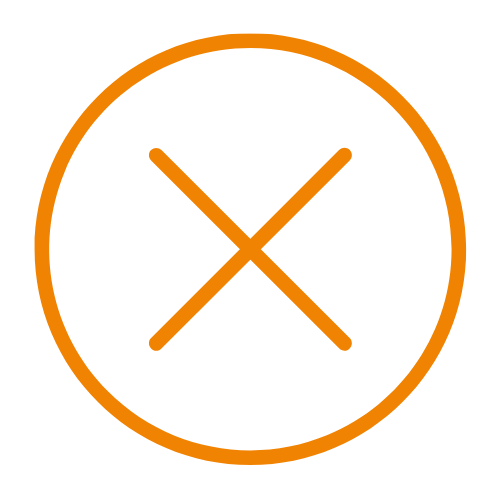
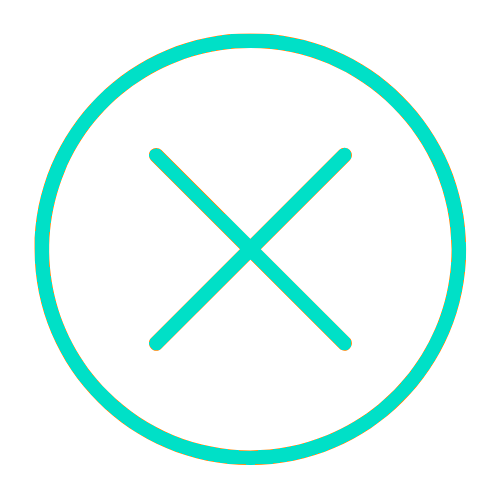
switch colors

Changed region(s): [[0.06, 0.06, 0.93, 0.93], [0.3, 0.3, 0.72, 0.72]]

diff --git a/Components/NavBar/NavBar.module.css b/Components/NavBar/NavBar.module.css
@@ -26,8 +26,8 @@
 }
 
 .active_btn{
-    color: #f18303;
-    border-bottom: 2px solid #f18303;
+    color: var(--danger);
+    border-bottom: 2px solid var(--danger);
     padding-bottom: .4rem;
 }
 
@@ -42,7 +42,7 @@
     border: none;
     border-radius: .5rem;
     font-size: 1.1rem;
-    color: #f18303;
+    color: var(--danger);
     font-weight: 700;
     cursor: pointer;
 
@@ -66,7 +66,7 @@
 .modelBox{
     position: fixed;
     inset: 0 0 0 0;
-    background-color: #292f3f;
+    background-color: var(--primary);
     z-index: 77777777;
 }
 
@@ -93,7 +93,7 @@
     .NavBar_box_right_menu{
         position: fixed;
         z-index: 111111;
-        background-color: #292f3f;
+        background-color: var(--primary);
         width: 100%;
         flex-direction: column;
         height: 100vh;
@@ -106,7 +106,7 @@
         display: block;
         position: fixed;
         z-index: 111111;
-        background-color: #292f3f;
+        background-color: var(--primary);
         inset: 0 0 0 0;
         text-align: center;
         padding-top: 4rem;

diff --git a/Components/Filter/Filter.module.css b/Components/Filter/Filter.module.css
@@ -15,7 +15,7 @@
     border-radius: 2rem;
     padding-inline: 1rem;
     background-color: rgba(0, 0, 0, 0.25);
-    color: #f18303;
+    color: var(--danger);
 }
 
 .Filter_box_left_search input{
@@ -23,7 +23,7 @@
     outline: none;
     border: none;
     padding: 1rem;
-    color: #f18303;
+    color: var(--danger);
     width: 20rem;
 }
 
@@ -37,7 +37,7 @@
     outline: none;
     border: none;
     padding: 1rem 2rem;
-    color: #f18303;
+    color: var(--danger);
     border-radius: 2rem;
     font-weight: 700;
     display: flex;
@@ -48,7 +48,7 @@
 .Filter_model{
     position: fixed;
     inset: 0 0 0 0;
-    background-color: #292f3f;
+    background-color: var(--primary);
     z-index: 22222222222;
 }
 

diff --git a/Components/Model/Model.module.css b/Components/Model/Model.module.css
@@ -11,7 +11,7 @@
 
 .Model_box_right h1{
     font-size: 3rem;
-    color: #f18303;
+    color: var(--danger);
     line-height: .9;
 }
 
@@ -22,7 +22,7 @@
 
 .Model_box_right small{
     font-size: 1.2rem;
-    color: #f18303;
+    color: var(--danger);
 }
 
 .Model_box_right_name_info{
@@ -41,7 +41,7 @@
     background-color: transparent;
     outline: none;
     border: none;
-    color: #f18303;
+    color: var(--danger);
 }
 
 .Model_box_right_name_btn{
@@ -53,7 +53,7 @@
 .Model_box_right_name_btn button{
     outline: none;
     border: none;
-    color: #f18303;
+    color: var(--danger);
     font-size: 1.2rem;
     font-weight: 700;
     text-transform: uppercase;

diff --git a/Components/Friend/Chat/Chat.module.css b/Components/Friend/Chat/Chat.module.css
@@ -16,7 +16,7 @@
 
 .Chat_box_right p,
 .Chat_box_left p{
-    background-color: #f182035b;
+    background-color: var(--danger);
     padding: 1rem;
     border-top-right-radius: .5rem;
     border-top-left-radius: .5rem;
@@ -39,12 +39,16 @@
 
 .Chat_box_send_img .inputMsg{
     width: 100%;
-    background-color: #f182035b;
+    background-color: var(--danger);
     outline: none;
     border: none;
     padding: 1rem;
-    color: #f18203;
+    color: white;
     border-radius: .5rem;
+}
+
+.Chat_box_send_img .inputMsg::placeholder{
+    color: white;
 }
 
 .Chat_user_info{

diff --git a/Components/Error/Error.module.css b/Components/Error/Error.module.css
@@ -3,13 +3,13 @@
     inset: 30% 30% 45% 30%;
     z-index: 1111111111;
     margin: 0 auto;
-    background-color: #292f3f;
+    background-color: var(--primary);
     text-align: center;
     border-radius: 1rem;
     padding: 2rem;
     border-radius: 50px;
-    background: #f18303;
-    box-shadow: 5px 5px 10px #cd6f03, -5px -5px 10px #ff9703;
+    background: var(--danger);
+    box-shadow: 5px 5px 10px var(--danger), -5px -5px 10px var(--danger);
 }
 
 @media only screen and (max-width: 35em) {

diff --git a/styles/globals.css b/styles/globals.css
@@ -5,7 +5,7 @@ body{
     padding: 0;
     margin: 0;
     font-family: 'Roboto', sans-serif;
-    background-color: #292F3F;
+    background-color: var(--dark);
     color: #FFFFFF;
 }
 
@@ -22,13 +22,8 @@ a{
     box-sizing: border-box;
 }
 
-/* @media (prefers-color-scheme: dark) {
-    html{
-        color-scheme: dark;
-    }
-
-    body{
-        color: white;
-        background: black;
-    }
-} */
+:root{
+    --dark: #0d0f13;
+    --primary: #191d1d;
+    --danger: #00e0c7;
+}

diff --git a/Components/UserCard/UserCard.module.css b/Components/UserCard/UserCard.module.css
@@ -16,7 +16,7 @@
 
 .UserCard_box_info button{
     background-color: rgba(0, 0, 0, 0.25);
-    color: #F18303;
+    color: var(--danger);
     width: 50%;
     padding: 1rem;
     border: none;
@@ -30,6 +30,6 @@
     right: 1rem;
     padding: 1rem 1.3rem;
     border-radius: 50%;
-    background-color: #F18303;
+    background-color: var(--danger);
     top: 1rem;
 }

diff --git a/Components/Friend/Chat/FileLabel.module.css b/Components/Friend/Chat/FileLabel.module.css
@@ -20,11 +20,11 @@
   transition: 200ms color;
 }
 .filelabel:hover {
-  border: 2px solid #f182035b;
+  border: 2px solid var(--danger);
 }
 .filelabel:hover i,
 .filelabel:hover .title {
-  color: #f182035b;
+  color: var(--danger);
 }
 .FileUpload1{
   display: none;

diff --git a/Components/Friend/Card/Card.module.css b/Components/Friend/Card/Card.module.css
@@ -4,7 +4,7 @@
     line-height: 0;
     gap: 1rem;
     padding: 1rem 0;
-    border-bottom: 1px solid #f1820342;
+    border-bottom: 1px solid var(--danger);
     cursor: pointer;
 }
 
